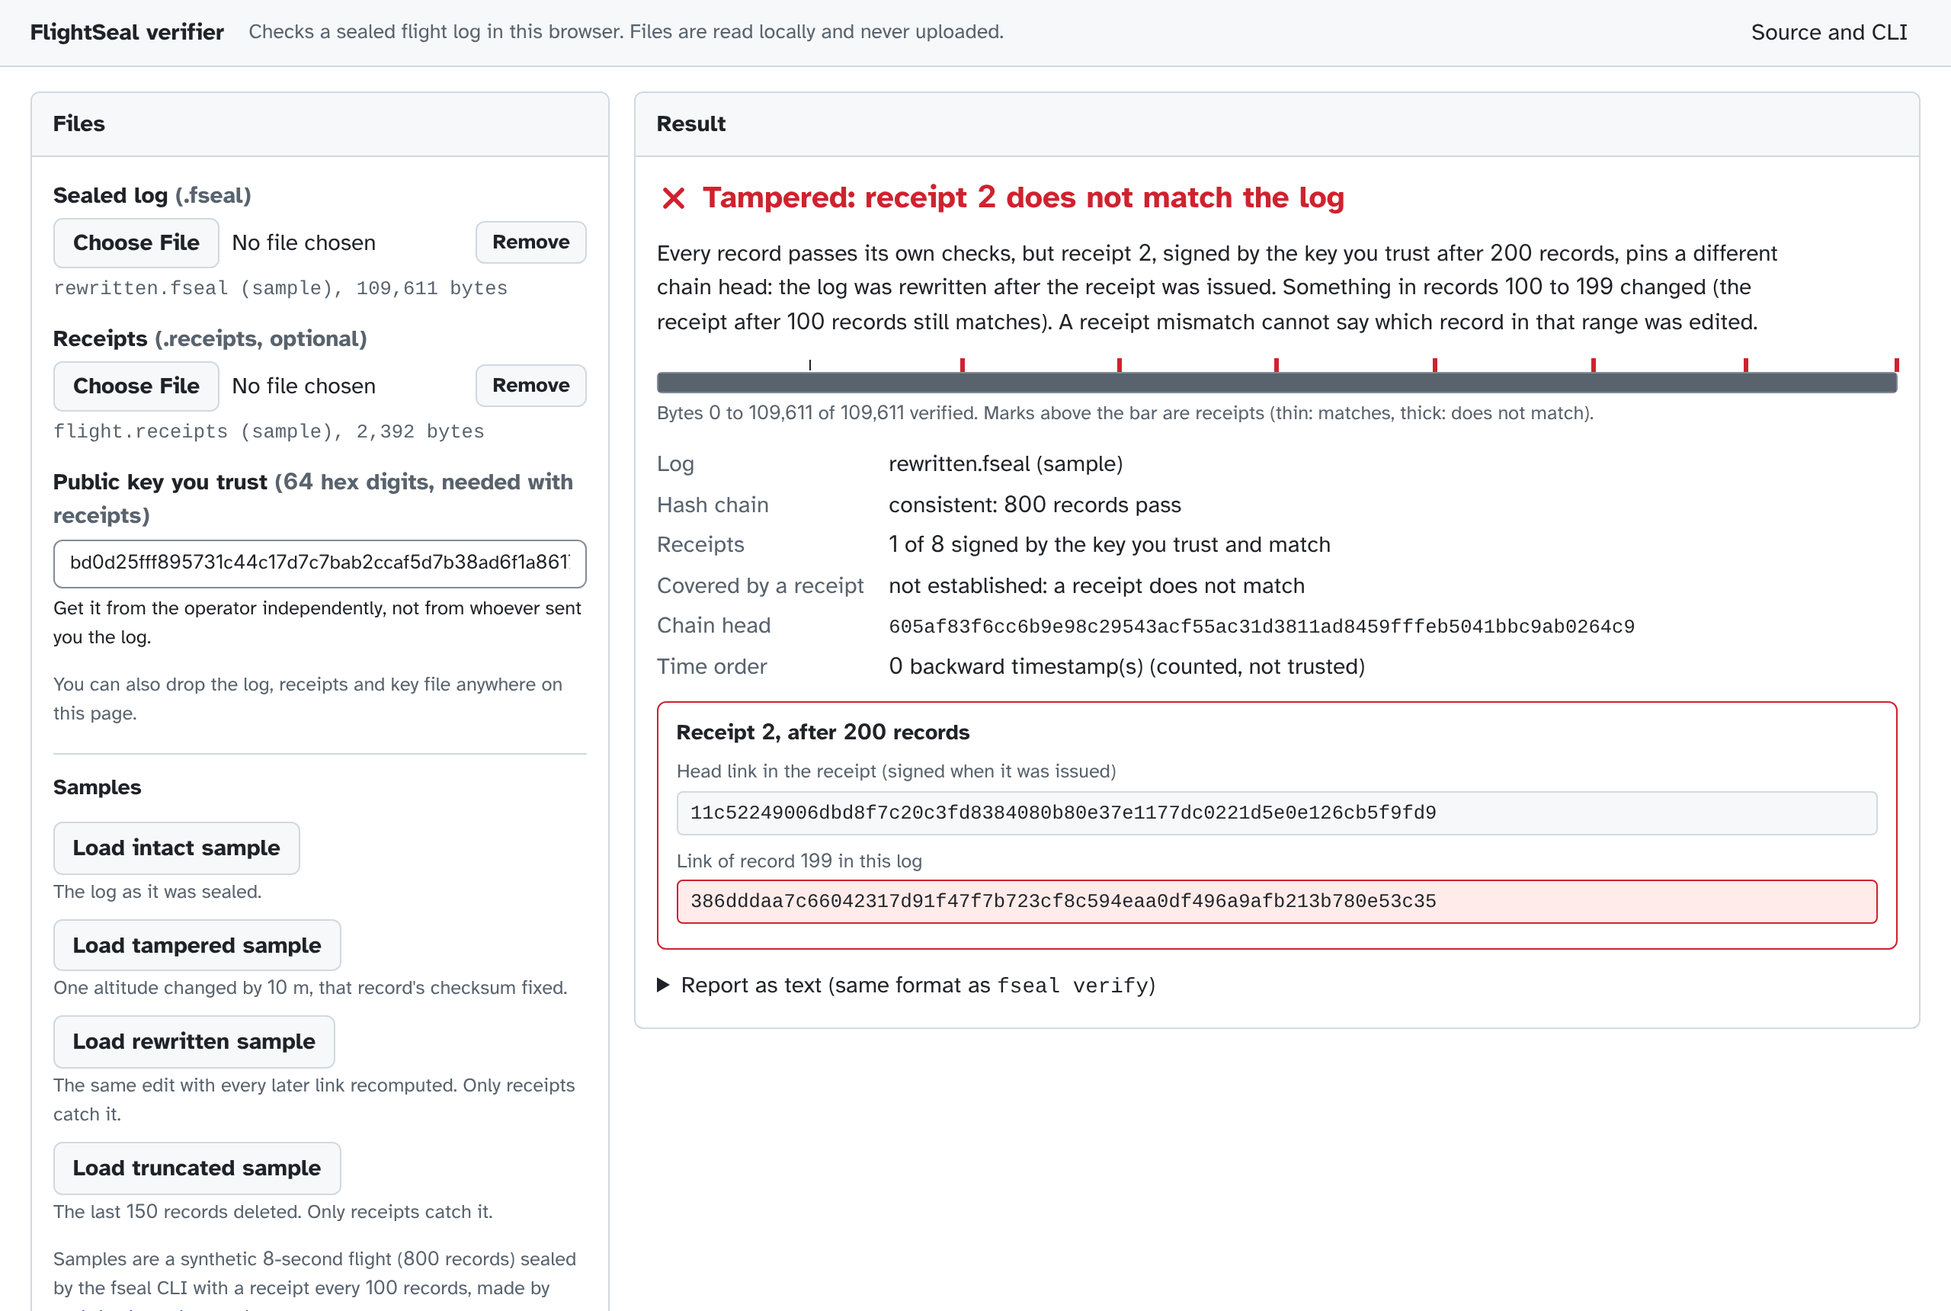
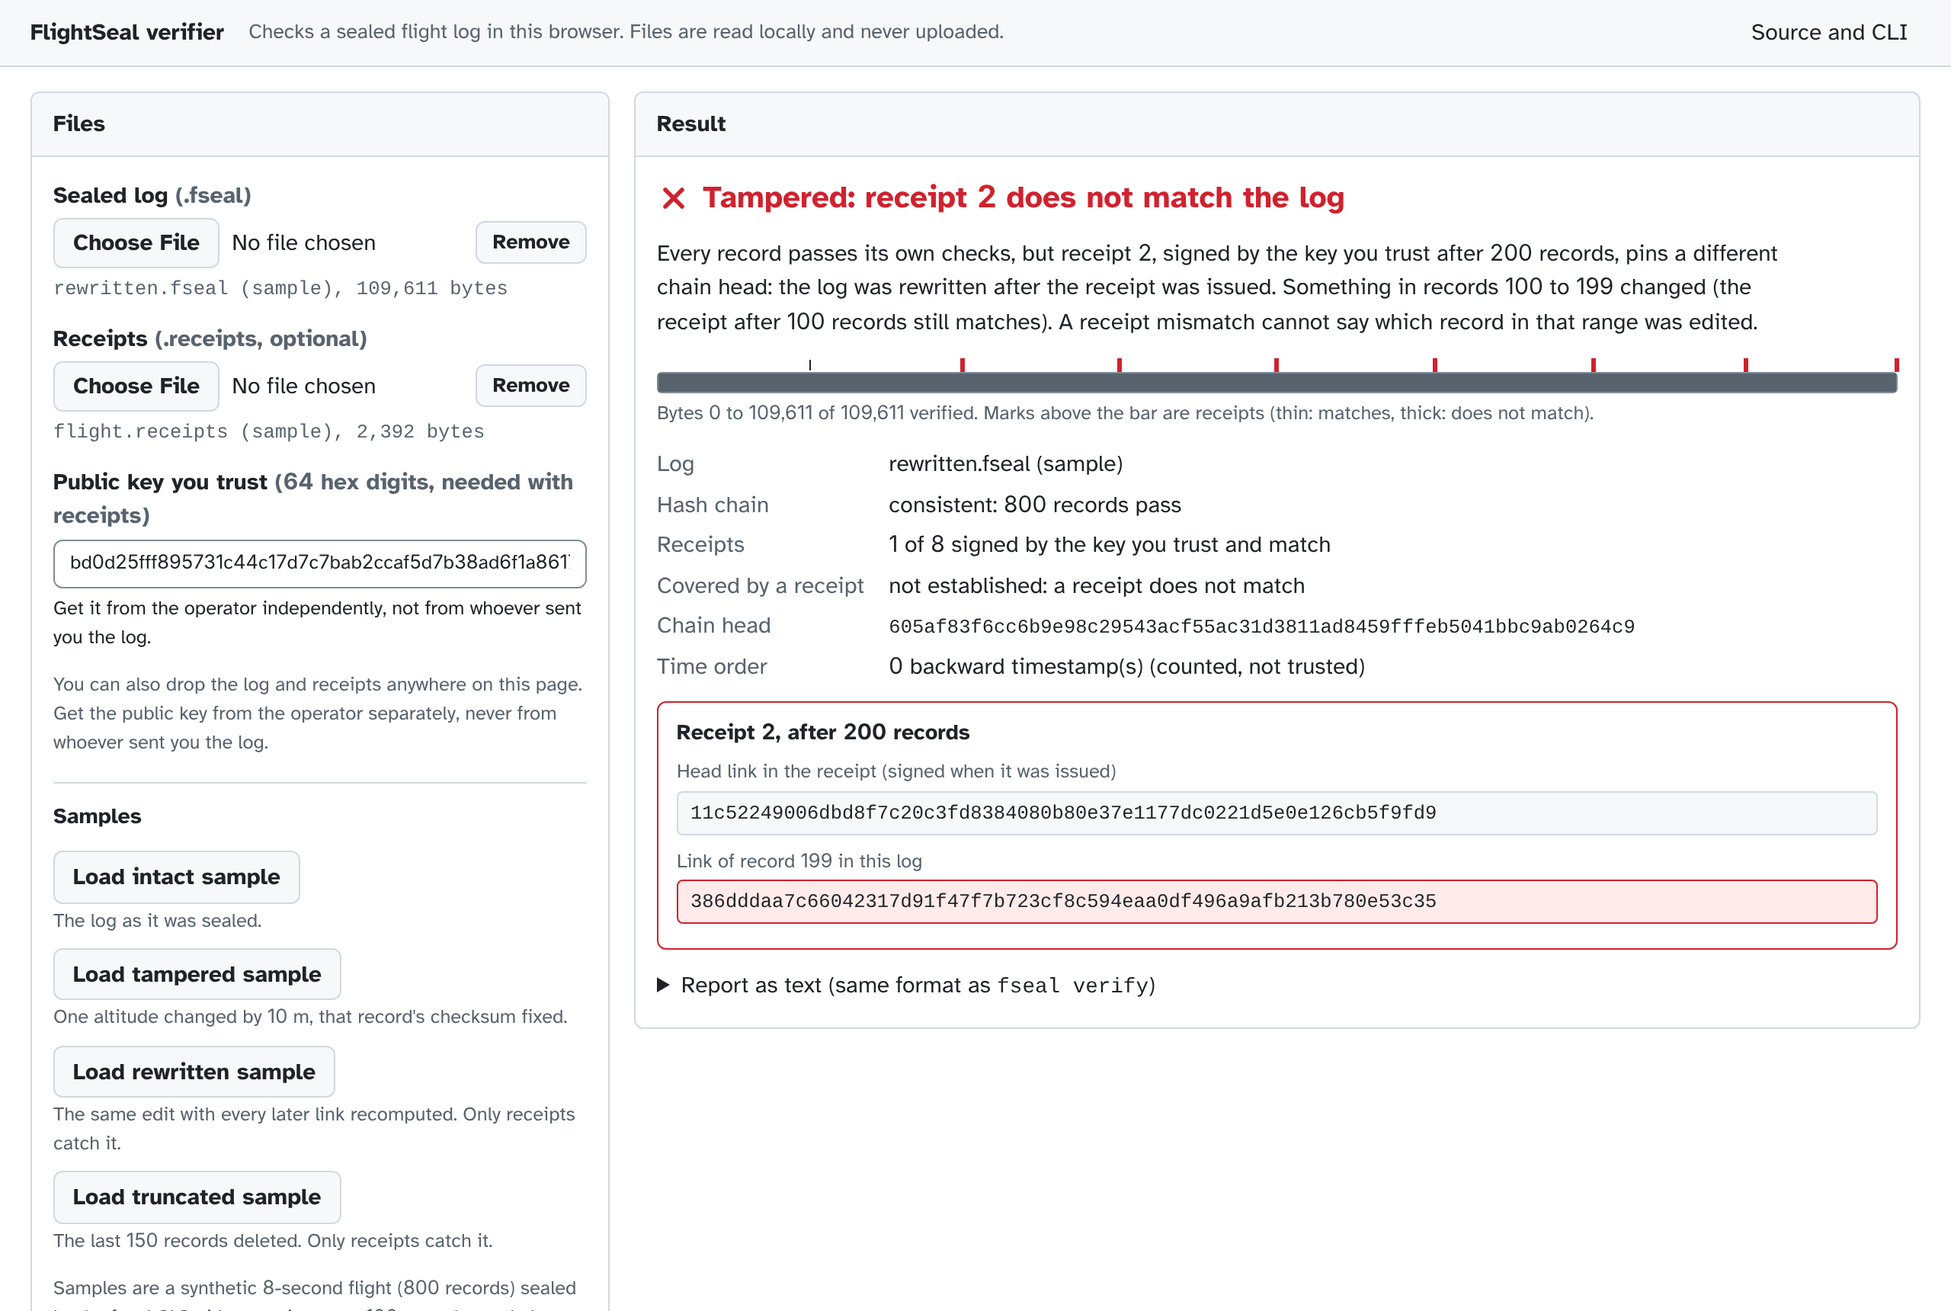
Page: untrusted receipts are a warning; polish from review
Red receipt verdicts only for a validly signed receipt that disagrees, named
by lowest count. Receipts from another key or with a bad signature, with or
without Ed25519, show 'receipts not valid for the key you trust' or 'not
authenticated'. fillProblemRow ignores results from a replaced run; an empty
receipts file shows 'file loaded, 0 receipts'; the drop hint no longer
invites dropping the key; plurals ('The 1 record passes'). Browser tests for
each; waits now target the asserted text to avoid stale-render races.

Claude-Session: https://claude.ai/code/session_01SBDy3AAAGa7xAC8BzFcKKn

Changed region(s): [[0.0312, 0.493, 0.3125, 1.0]]

diff --git a/docs/app.js b/docs/app.js
@@ -218,13 +218,13 @@ async function verify() {
     $("verdict-line").textContent = "Load a sealed log or a sample to check it.";
     return;
   }
-  let receipts = null, key = null, receiptError = null;
+  let receipts = null, key = null, receiptError = null, emptyReceipts = false;
   if (state.receipts) {
     if (state.receipts.error) receiptError = state.receipts.error;
     else {
       const parsed = parseReceipts(state.receipts.text);
       if (parsed.error) receiptError = `${state.receipts.name}, line ${parsed.error.line}: not a receipt. Nothing was checked against the receipts.`;
-      else if (parsed.receipts.length === 0) receiptError = `${state.receipts.name} contains no receipts, so nothing was checked against receipts.`;
+      else if (parsed.receipts.length === 0) emptyReceipts = true, receiptError = `${state.receipts.name} contains no receipts, so nothing was checked against receipts.`;
       else receipts = parsed.receipts;
     }
     if (receipts) {
@@ -258,7 +258,7 @@ async function verify() {
     const check = receipts && key ? await checkReceipts(receipts, key, scan) : null;
     if (run !== state.run) return;
     const summary = summarize(scan, check);
-    state.result = { scan, check, summary, source, receiptError };
+    state.result = { scan, check, summary, source, receiptError, emptyReceipts };
     render();
   } catch (e) {
     if (run !== state.run) return;
@@ -280,6 +280,9 @@ function clearResult() {
 }
 
 // ---- verdict ---------------------------------------------------------------------------------
+const plural = (k, word) => `${n(k)} ${word}${k === 1 || k === 1n ? "" : "s"}`;
+const allPass = (k) => (k === 1 ? "The 1 record passes" : `All ${n(k)} records pass`);
+const lowestCount = (list) => list.reduce((m, x) => (!m || x.count < m.count ? x : m), null);
 // Three things are judged separately: whether the hash chain is consistent (proved without any key), whether
 // receipts signed by the key you trust cover the log, and which records no authenticated receipt covers.
 function verdictFor(r) {
@@ -303,36 +306,37 @@ function verdictFor(r) {
     ] };
   }
 
-  // 2. Receipts that are provably not from the key you trust (no signature check needed for a different key).
-  if (summary.failed > 0) {
-    const f = summary.firstFailure;
-    if (f.result === "wrong-key" || f.result === "bad-signature") {
-      return { kind: "bad", head: `Receipt ${f.index} is not valid for the key you trust`, body: [f.result === "wrong-key"
-        ? `Receipt ${f.index} names a different signing key than the one you entered. Either the key you entered is wrong, or the receipts are not the ones issued for this log. Check the key with the operator. fseal verify reports this as TAMPERED.`
-        : `The signature on receipt ${f.index} does not verify with the key you trust: the receipt itself was altered or forged. fseal verify reports this as TAMPERED.`] };
-    }
-  }
-
-  // 3. Receipts that cannot be authenticated in this browser are not evidence either way.
+  // 2. Receipts that cannot be authenticated in this browser are not evidence either way.
   if (unauthenticated) {
     const mism = summary.unverifiedMismatches;
     return { kind: "warn", head: scan.status === "torn-tail" ? "Incomplete; receipts not authenticated" : "Chain intact; receipts not authenticated", body: [
       scan.status === "torn-tail"
         ? `Records 0 to ${n(scan.records - 1)} pass every check; the last ${n(scan.size - scan.goodBytes)} bytes are an unfinished record, as a crash leaves it.`
-        : `All ${n(scan.records)} records pass their checksum, sequence and hash-chain checks.`,
-      `This browser cannot verify Ed25519 signatures, so the ${summary.receipts} receipt(s) are not authenticated: anyone could have written them. ${mism ? `${mism} of them disagree with the log, which proves nothing without a valid signature.` : "They agree with the log, which proves nothing without a valid signature."} No record is covered by an authenticated receipt. Use the fseal CLI or a browser with Ed25519 to check them.`,
+        : `${allPass(scan.records)} their checksum, sequence and hash-chain checks.`,
+      `This browser cannot verify Ed25519 signatures, so the ${plural(summary.receipts, "receipt")} ${summary.receipts === 1 ? "is" : "are"} not authenticated: anyone could have written them. ${mism ? `${n(mism)} disagree with the log, which proves nothing without a valid signature.` : "Agreeing with the log proves nothing without a valid signature."} No record is covered by an authenticated receipt. Use the fseal CLI or a browser with Ed25519 to check them.`,
     ] };
   }
 
-  // 4. Authenticated receipts that disagree with the log.
+  // 3. Authenticated receipts (valid signature by the key you trust) that disagree with the log: proof.
   if (summary.failed > 0) {
-    const f = summary.firstFailure;
+    const f = lowestCount(check.results.filter((x) => x.result === "head-mismatch" || x.result === "log-shorter"));
     const prevOk = check.results.filter((x) => x.result === "ok" && x.count < f.count).reduce((m, x) => (x.count > m ? x.count : m), 0n);
     const body = {
-      "head-mismatch": `Every record passes its own checks, but receipt ${f.index}, signed by the key you trust after ${n(f.count)} records, pins a different chain head: the log was rewritten after the receipt was issued. Something in records ${n(prevOk)} to ${n(f.count - 1n)} changed${prevOk ? ` (the receipt after ${n(prevOk)} records still matches)` : ""}. A receipt mismatch cannot say which record in that range was edited.`,
-      "log-shorter": `Every record passes its own checks, but receipt ${f.index}, signed by the key you trust, says ${n(f.count)} records had been written and this log has ${n(scan.records)}: records were removed from the end.`,
+      "head-mismatch": `Every record passes its own checks, but receipt ${f.index}, signed by the key you trust after ${plural(f.count, "record")}, pins a different chain head: the log was rewritten after the receipt was issued. Something in records ${n(prevOk)} to ${n(f.count - 1n)} changed${prevOk ? ` (the receipt after ${plural(prevOk, "record")} still matches)` : ""}. A receipt mismatch cannot say which record in that range was edited.`,
+      "log-shorter": `Every record passes its own checks, but receipt ${f.index}, signed by the key you trust, says ${plural(f.count, "record")} had been written and this log has ${n(scan.records)}: records were removed from the end.`,
     }[f.result];
     return { kind: "bad", head: `Tampered: receipt ${f.index} does not match the log`, body: [body] };
+  }
+
+  // 4. Receipts not validly signed by the key you trust: anyone could have made them, so they prove nothing.
+  if (summary.untrusted > 0) {
+    const u = lowestCount(check.results.filter((x) => x.result === "wrong-key" || x.result === "bad-signature"));
+    return { kind: "warn", head: scan.status === "torn-tail" ? "Incomplete; receipts not valid for the key you trust" : "Chain intact; receipts not valid for the key you trust", body: [
+      scan.status === "torn-tail"
+        ? `Records 0 to ${n(scan.records - 1)} pass every check; the last ${n(scan.size - scan.goodBytes)} bytes are an unfinished record, as a crash leaves it.`
+        : `${allPass(scan.records)} their checksum, sequence and hash-chain checks.`,
+      `${plural(summary.untrusted, "receipt")} ${summary.untrusted === 1 ? "is" : "are"} not validly signed by the key you entered (the lowest is receipt ${u.index}, after ${plural(u.count, "record")}: ${u.result === "wrong-key" ? "it names a different signing key" : "its signature does not verify"}). Anyone can write such a receipt, so it is no evidence that the log was or was not changed. Check the key with the operator, or ask the witness for the receipts they kept.`,
+    ] };
   }
 
   // 5. A torn final record (a crash leaves one); the CLI reports TAMPERED for it whenever receipts are given.
@@ -346,14 +350,14 @@ function verdictFor(r) {
   if (scan.records === 0) return { kind: "warn", head: "The log has no records", body: ["The file is a FlightSeal log header with no records after it, so there is nothing to check."] };
   if (check) {
     return { kind: "ok", head: "Intact", body: [
-      `All ${n(scan.records)} records pass their checksum, sequence and hash-chain checks, and all ${summary.receipts} receipts, signed by the key you trust, match the log.`,
+      `${allPass(scan.records)} their checksum, sequence and hash-chain checks, and ${summary.receipts === 1 ? "the receipt" : `all ${summary.receipts} receipts`}, signed by the key you trust, match${summary.receipts === 1 ? "es" : ""} the log.`,
       summary.uncovered > 0n
-        ? `The last ${n(summary.uncovered)} record(s), from record ${n(summary.covered)} on, come after the last receipt: no receipt protects them, so whoever holds the file could have changed them.`
+        ? `The last ${plural(summary.uncovered, "record")}, from record ${n(summary.covered)} on, come after the last receipt: no receipt protects them, so whoever holds the file could have changed them.`
         : "The last receipt covers the final record, so every record is protected by a receipt.",
     ] };
   }
   return { kind: "warn", head: "Chain intact; no receipts checked", body: [
-    `All ${n(scan.records)} records pass their checksum, sequence and hash-chain checks. Without receipts this shows only that the file is self-consistent.`,
+    `${allPass(scan.records)} their checksum, sequence and hash-chain checks. Without receipts this shows only that the file is self-consistent.`,
   ] };
 }
 
@@ -367,20 +371,22 @@ function render() {
   $("verdict-detail").replaceChildren(...v.body.map((t) => el("p", { text: t })));
 
   // Facts.
-  const chain = scan.status === "ok" ? `consistent: ${n(scan.records)} records pass`
+  const chain = scan.status === "ok" ? `consistent: ${plural(scan.records, "record")} pass${scan.records === 1 ? "es" : ""}`
     : scan.status === "bad-header" ? "not checked: not a FlightSeal log"
-    : `${n(scan.records)} records pass, then ${scan.status === "torn-tail" ? "a cut-short record" : `a break at record ${n(scan.problem.record)}`} [${scan.status}]`;
-  let receiptsText = "none loaded";
+    : `${plural(scan.records, "record")} pass${scan.records === 1 ? "es" : ""}, then ${scan.status === "torn-tail" ? "a cut-short record" : `a break at record ${n(scan.problem.record)}`} [${scan.status}]`;
+  let receiptsText = r.emptyReceipts ? "file loaded, 0 receipts" : "none loaded";
   if (check && !summary.authenticated) receiptsText = `${summary.receipts} loaded, NOT authenticated (signatures not checked in this browser)`;
   else if (check) {
     receiptsText = `${summary.matched} of ${summary.receipts} signed by the key you trust and match`;
+    if (summary.untrusted) receiptsText += `; ${summary.untrusted} not validly signed by that key`;
     if (summary.unchecked) receiptsText += `; ${summary.unchecked} cannot be checked past the first problem`;
   }
-  const coverage = !check || !summary.authenticated ? `none: all ${n(scan.records)} checked record(s) lack an authenticated receipt`
+  const coverage = !check || !summary.authenticated ? `none: no checked record has an authenticated receipt`
     : summary.failed ? "not established: a receipt does not match"
     : scan.status !== "ok" ? (summary.covered > 0n ? `records 0 to ${n(summary.covered - 1n)}; nothing from the problem at record ${n(scan.problem.record)} on` : `none before the problem at record ${n(scan.problem.record)}`)
-    : summary.uncovered > 0n ? `records 0 to ${n(summary.covered - 1n)}; the last ${n(summary.uncovered)} record(s) are not covered`
-    : `all ${n(scan.records)} records`;
+    : summary.covered === 0n ? `none: no receipt signed by the key you trust matches`
+    : summary.uncovered > 0n ? `records 0 to ${n(summary.covered - 1n)}; the last ${plural(summary.uncovered, "record")} ${summary.uncovered === 1n ? "is" : "are"} not covered`
+    : `all ${plural(scan.records, "record")}`;
   const facts = [
     ["Log", state.log.name],
     ["Hash chain", chain],
@@ -420,8 +426,9 @@ function renderBreak(r) {
       "bad-length": ["Allowed payload length", "Length field in the record"],
     }[p.token];
     box.replaceChildren(pair(`First break: record ${n(p.record)}, byte ${n(p.offset)} [${p.token}]`, p.expected, p.actual, ...labels));
-  } else if (summary.authenticated && summary.firstFailure && summary.firstFailure.result === "head-mismatch") {
-    const f = summary.firstFailure;
+  } else if (summary.authenticated && summary.failed > 0
+    && lowestCount(r.check.results.filter((x) => x.result === "head-mismatch" || x.result === "log-shorter")).result === "head-mismatch") {
+    const f = lowestCount(r.check.results.filter((x) => x.result === "head-mismatch"));
     box.replaceChildren(pair(`Receipt ${f.index}, after ${n(f.count)} records`, f.receiptHead, f.logHead, "Head link in the receipt (signed when it was issued)", `Link of record ${n(f.count - 1n)} in this log`));
   } else if (p && p.detail) {
     box.replaceChildren(el("div", { class: "compare" }, el("h3", { text: `First problem: record ${n(p.record)}, byte ${n(p.offset)} [${p.token}]` }), el("p", { text: p.detail })));
@@ -460,7 +467,8 @@ function renderStrip(r) {
       if (x.result === "unchecked" || x.count === 0n) continue;
       const c = Number(x.count);
       const at = c <= rows.count ? rows.offset[c - 1] + 56 + rows.len[c - 1] : scan.size;
-      const t = el("span", { class: `tick ${x.result === "ok" || !r.summary.authenticated ? "ok" : "bad"}` });
+      const proof = r.summary.authenticated && (x.result === "head-mismatch" || x.result === "log-shorter");
+      const t = el("span", { class: `tick ${proof ? "bad" : "ok"}` });
       t.style.left = pct(at);
       kids.push(t);
     }
@@ -478,9 +486,10 @@ function renderReceipts(r) {
   if (!r.check) return;
   const authenticated = r.summary.authenticated;
   const rows = r.check.results.map((x) => {
-    let kind = x.result === "ok" ? "ok" : x.result === "unchecked" ? "warn" : "bad";
+    let kind = x.result === "ok" ? "ok" : x.result === "unchecked" || x.result === "wrong-key" || x.result === "bad-signature" ? "warn" : "bad";
     let label = x.result === "unchecked" ? "not checked: past the first problem" : RECEIPT_TEXT[x.result];
-    if (!authenticated && x.result !== "unchecked" && x.result !== "wrong-key") {
+    if (x.result === "wrong-key" || x.result === "bad-signature") label = `${RECEIPT_TEXT[x.result].split(" (")[0]}: not evidence either way`;
+    if (!authenticated && x.result !== "unchecked") {
       kind = "warn";
       label = x.result === "ok" ? "agrees with the log, but not authenticated" : `disagrees with the log, but not authenticated (${RECEIPT_TEXT[x.result].split(" (")[0]})`;
     }
@@ -561,8 +570,10 @@ function recordRow(record, seq, ts, len, offset, token) {
 }
 
 async function fillProblemRow() {
-  const { scan, source } = state.result;
+  const result = state.result;
+  const { scan, source } = result;
   const rec = await readRecord(source, scan.problem.offset);
+  if (result !== state.result) return; // another log or run replaced this one while reading
   const tr = document.querySelector(`#rec-body tr[data-record="${scan.problem.record}"]`);
   if (!rec || !tr) return;
   const cells = tr.querySelectorAll("td");

diff --git a/docs/index.html b/docs/index.html
@@ -44,7 +44,7 @@
           <input type="text" id="pubkey" class="input mono" spellcheck="false" autocomplete="off" aria-describedby="pubkey-help">
           <p class="help" id="pubkey-help">Get it from the operator independently, not from whoever sent you the log.</p>
         </div>
-        <p class="drop-hint muted">You can also drop the log, receipts and key file anywhere on this page.</p>
+        <p class="drop-hint muted">You can also drop the log and receipts anywhere on this page. Get the public key from the operator separately, never from whoever sent you the log.</p>
 
         <h3 class="samples-h">Samples</h3>
         <ul class="samples" aria-describedby="samples-note">
@@ -139,6 +139,10 @@
       <li>Truncation of the tail is only caught with receipts. So is a log that its holder rebuilt from scratch: a receipt kept by someone else, signed by the drone's key, pins how the log looked when the receipt was issued. A receipt that does not match shows that something changed between it and the previous matching receipt, not which record.</li>
       <li>Receipts count only when their signature verifies with the key you trust. If this browser cannot check Ed25519 signatures, receipts are shown as not authenticated: neither proof of tampering nor of integrity.</li>
       <li>Nothing here shows the data was true when it was sealed (a spoofed sensor looks normal), and records written after the last receipt are not protected. See the <a href="https://github.com/anirudh763/flightseal/blob/main/THREAT_MODEL.md">threat model</a>.</li>
+      <li>The PX4 converter seals selected decoded ULog records, sorted by timestamp, after the log was downloaded; it does not preserve or authenticate every byte of the original .ulg file, or anything that happened before sealing. See the <a href="https://docs.px4.io/main/en/dev_log/ulog_file_format">PX4 ULog specification</a>.</li>
+      <li>Keeping receipts with a separate witness is an operational assumption: the CLI writes receipts to a local file, and the protection holds only if someone other than the log&#39;s holder keeps a copy.</li>
+      <li>The tests use one real PX4 flight log (a public pyulog fixture); the browser samples are a synthetic 800-record flight.</li>
+      <li>FlightSeal is a narrow, documented workflow to support experiments. It is not proof of safe flight or of an accident&#39;s cause, and it is not a reproduction of RVFuzzer or PGFuzz. No user or field validation has been done.</li>
     </ul>
     <p class="muted small-print">The verifier is plain JavaScript using your browser's WebCrypto for SHA-256 and Ed25519; its tests require it to print the same report as the C++ CLI on every attack the project tests (when the browser can check signatures). Matching the CLI cannot catch a mistake both share. Built with AI assistance (Claude); see the README. Font: Atkinson Hyperlegible, <a href="OFL-atkinson-hyperlegible.txt">SIL Open Font License 1.1</a>.</p>
   </section>
